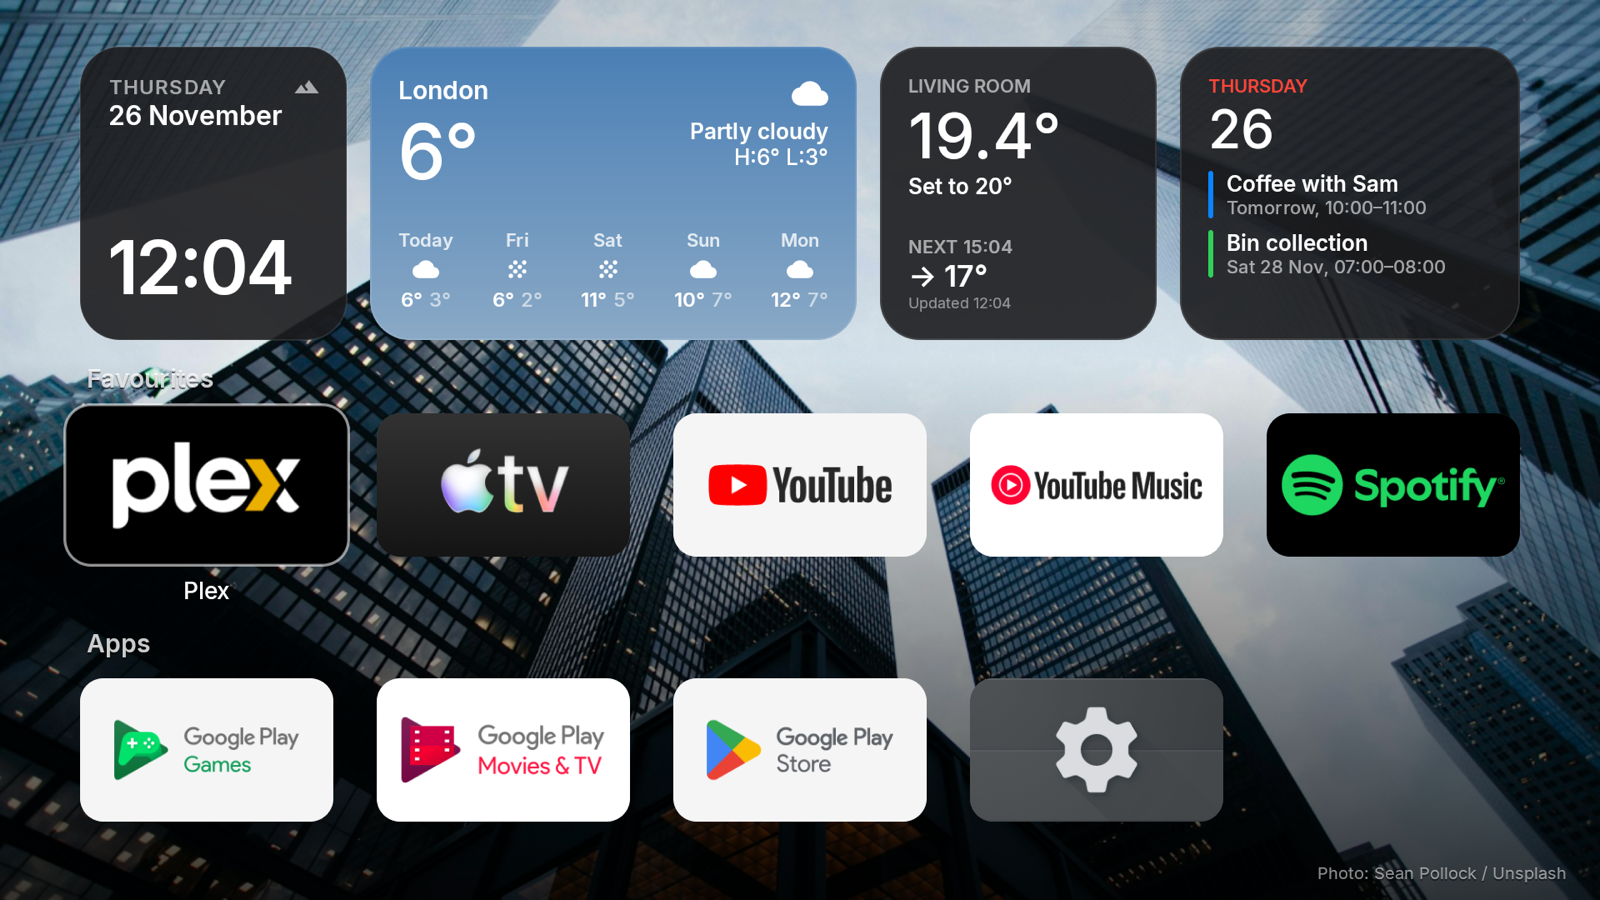
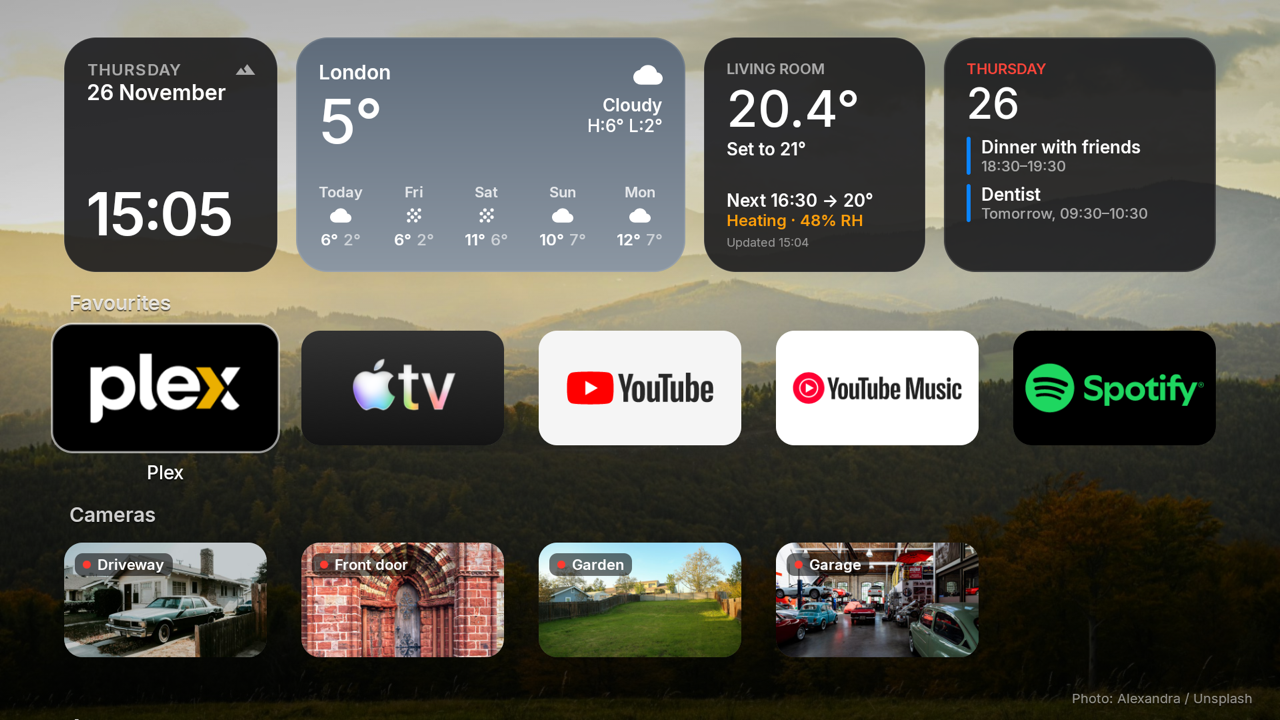
Add screenshots of the home screen, smart home panel and month view

diff --git a/README.md b/README.md
@@ -2,9 +2,15 @@
 
 A calm, ad-free home screen for Google TV, written in Kotlin with Compose for TV.
 
-![The home screen, shown with demo data](docs/images/home.png)
+![Home screen with clock, weather, heating, calendar, favourite apps and cameras](docs/images/home.png)
 
-*Demo data. The calendar entries and heating readings are made up; [demo settings](docs/demo-config.json).*
+| Smart home panel | Plain calendar and your own wallpaper |
+| --- | --- |
+| ![Panel with heating, vacuum controls, map and lights](docs/images/panel.png) | ![Home screen with a month calendar](docs/images/month.png) |
+
+*Demo data throughout: the calendar entries, readings, floor plan and devices are made up, and the
+camera pictures are stock photos. Photos from [Unsplash](https://unsplash.com) by Alexandra and
+Luca Bravo (wallpapers), and Marius Christensen, Pix Tresa, Giorgio Trovato and Alex Suprun (cameras).*
 
 ## Features
 
